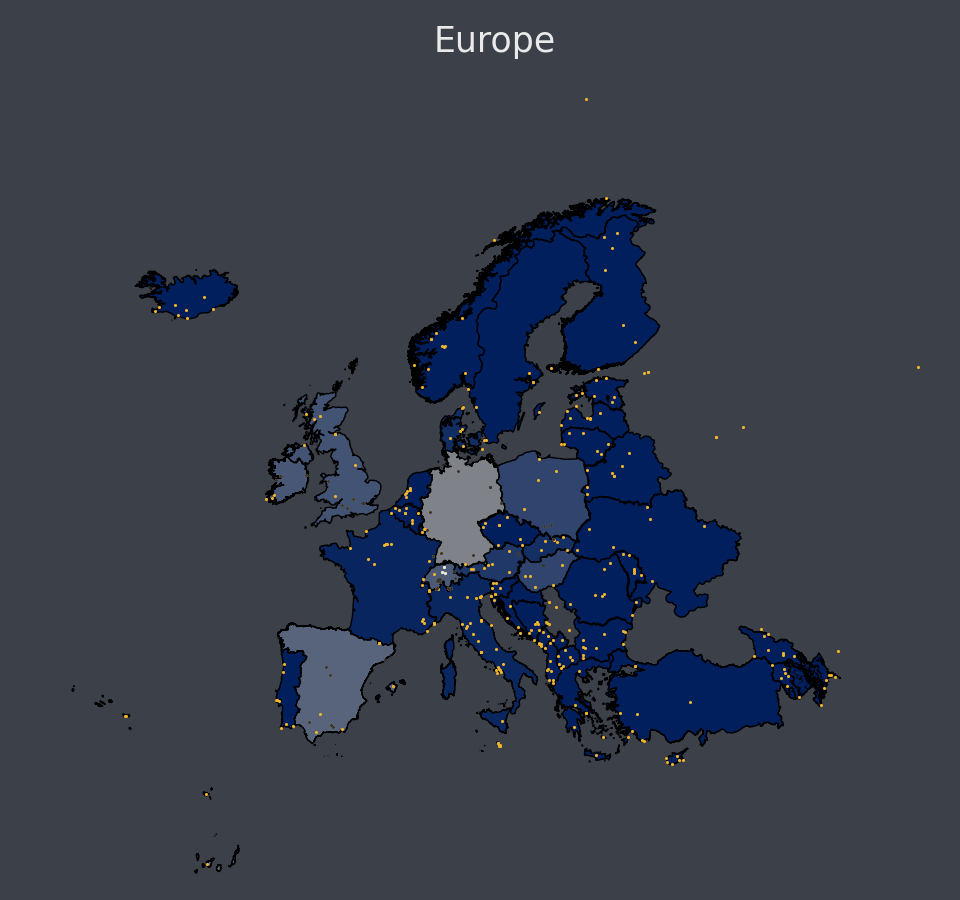
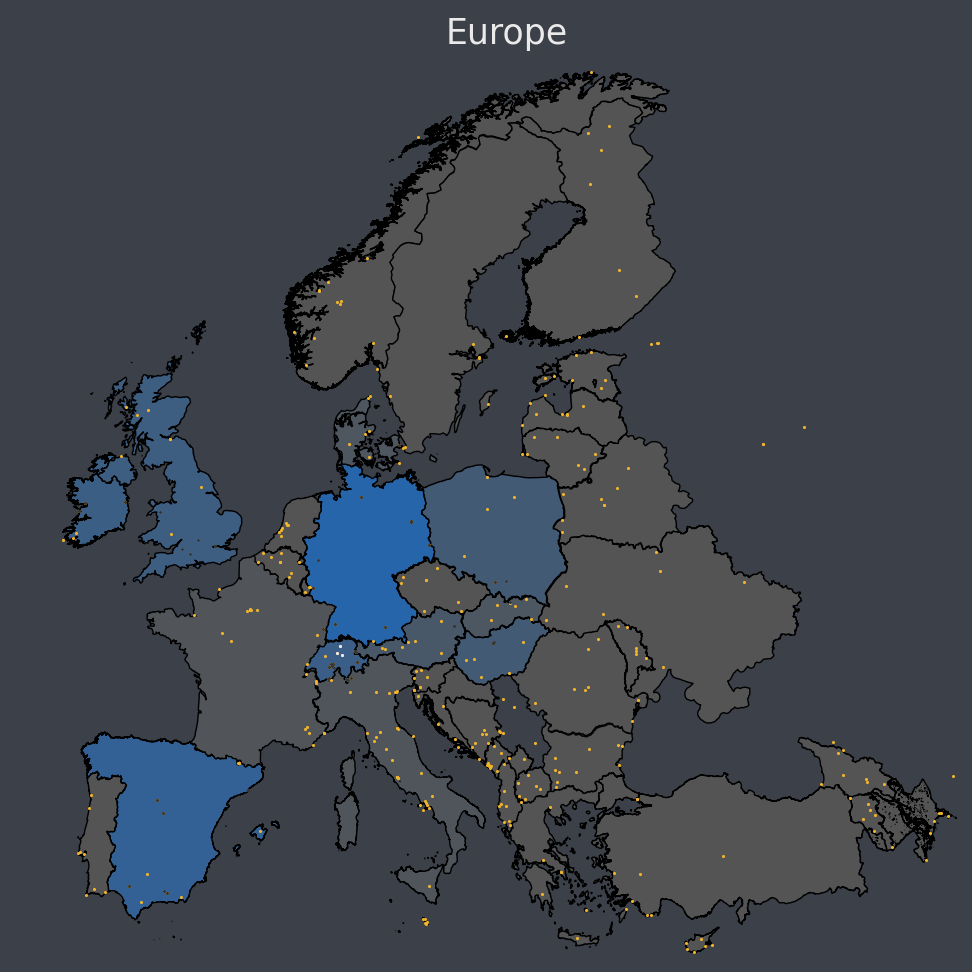
update the plot area

diff --git a/main.py b/main.py
@@ -13,16 +13,16 @@ from colormap import custom_cmap
 
 
 # Set global variables, directories for map creation and site locations
-SCALE = 5
+SCALE = 1
 
 # US National Park Global Variables
 #PATH = "us"
 
 # Germany Global Variables
-PATH = "de"
+#PATH = "de"
 
 # Europe Global Variables
-#PATH = "eu"
+PATH = "eu"
 
 # Load the JSON Meta-Data
 with open(PATH + '/meta_data.json', 'r') as f:
@@ -160,6 +160,8 @@ for index, row in points_gdf.iterrows():
                 
             # Add Plot Data and Save
             plt.title(title, fontsize=25*SCALE, color='#EAEAEA')
+            plt.xlim([-12, 52])
+            plt.ylim([34, 72])
             plt.axis("off")
             plt.savefig(f"./plots/temp/{PATH}_{current_date.strftime("%y%m%d")}.png")
 
